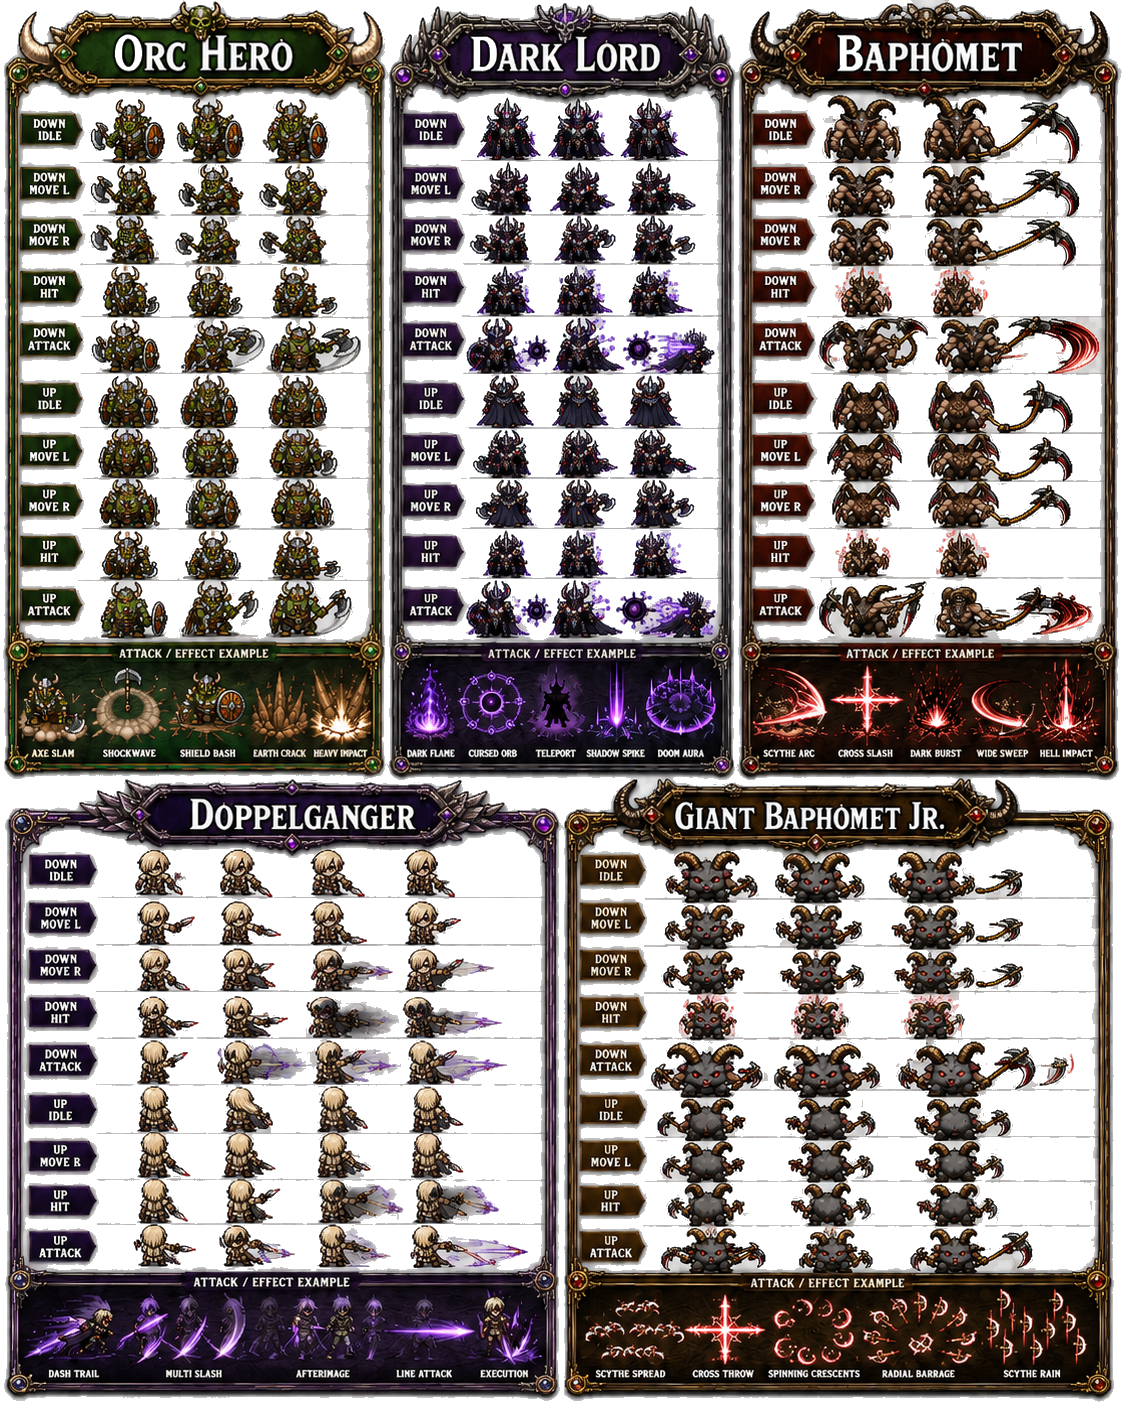
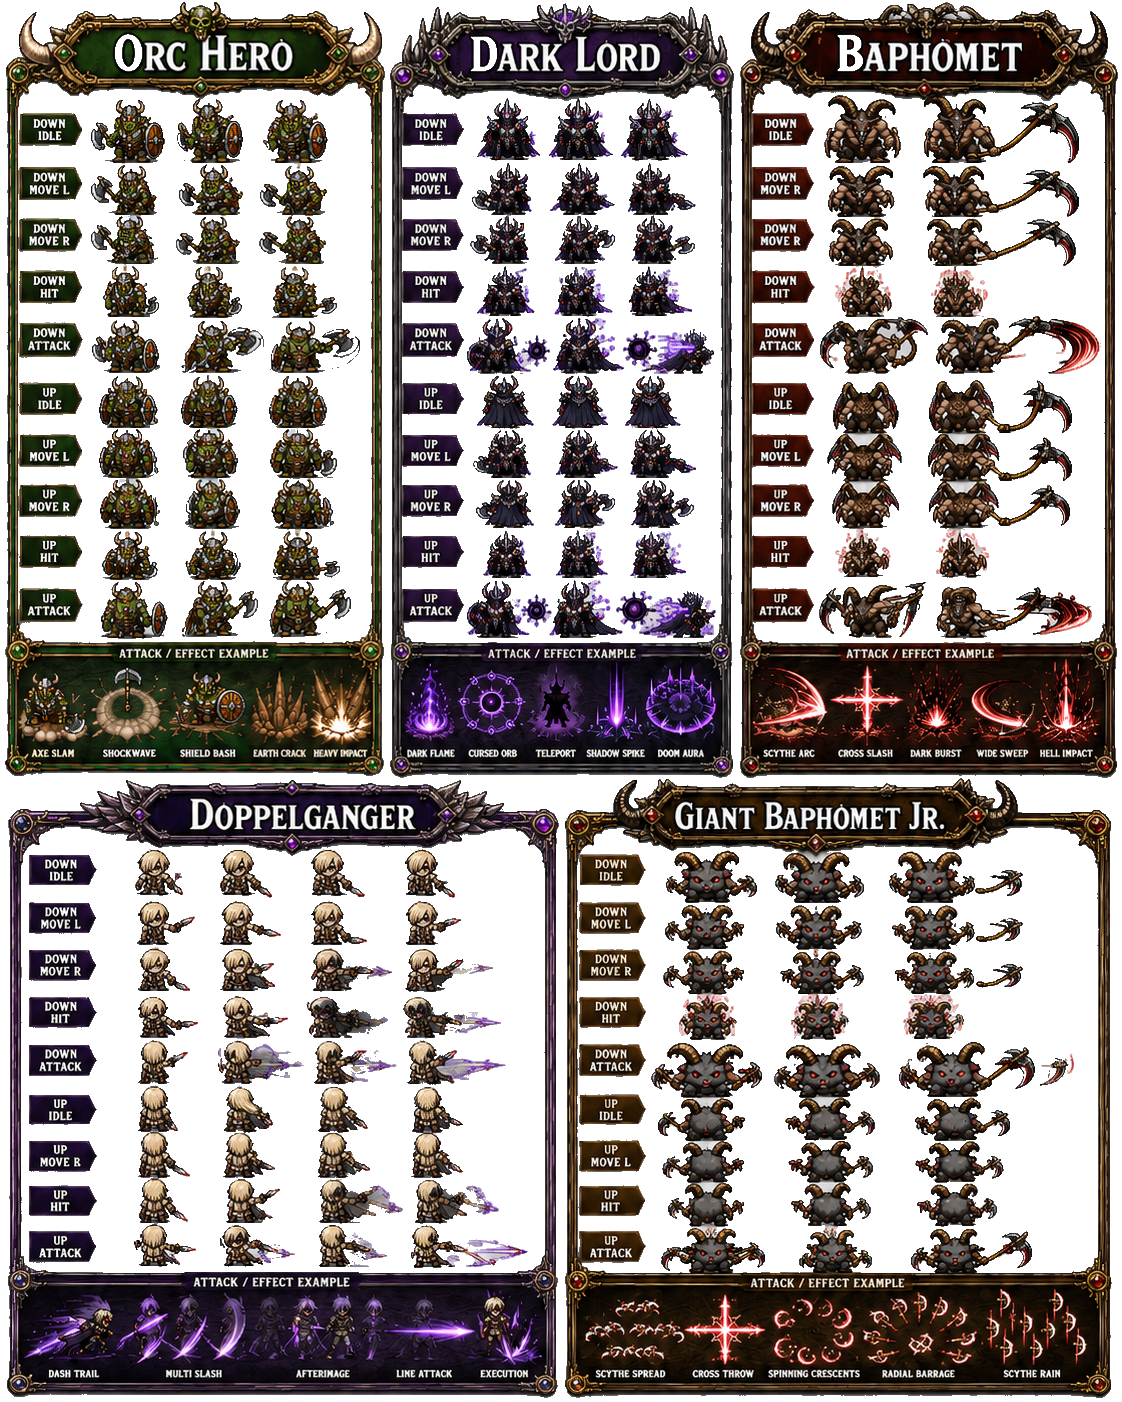
Boss fight rebalance: longer, slower, fairer + boss sprite bg fix
Fights were over in 8-20s (cards melted before patterns could be read). Now:
- Card HP tuned for ~30-45s active fights (Orc Hero ~36s, Dark Lord ~42s,
  Baphomet ~46s at realistic solo DPS; verified headless).
- Co-op scaling: card HP x1.7 with 2 players so duo fights keep their length.
- Boss bullets ~13% slower — more alive on screen, readable walls over reflex.
- Pattern identity: Dark Lord's Meteor Storm now falls in telegraphed columns
  (purple marker leads, column hammers the same x); desperation phases (speed
  up below 35% card HP) on every final card, plus Hell Judgement's third ring.
- Mid-bosses: HP 260/320/360 -> 420/520/600 (~10s mini-fights).

Also fixes a long-standing sprite bug the darker rebalanced fights exposed:
boss panels shade from bright to mid-gray, and the slicer only keyed bright
neutrals, leaving half the backdrop baked into Dark Lord's frames. Added an
expansion pass (grow transparency into adjacent neutral grays) to
slice-bosses.mjs and regenerated the atlas.

Determinism test still passes (lockstep checksums identical).

diff --git a/src/sim/boss.js b/src/sim/boss.js
@@ -5,9 +5,13 @@ import { FIELD_W } from './constants.js';
 import { ring, ringWithGap, fan, aimed, spiralArm, rain, angleTo } from './patterns.js';
 
 export function spawnBoss(sim, def) {
-  const maxHp = def.cards.reduce((s, c) => s + c.hp, 0);
+  // Co-op nearly doubles party DPS; scale card HP so the fight keeps its
+  // intended length (learn the pattern, find the flow) with 2 players too.
+  const hpMult = sim.players.filter(Boolean).length > 1 ? 1.7 : 1;
+  const maxHp = Math.round(def.cards.reduce((s, c) => s + c.hp, 0) * hpMult);
   sim.boss = {
     def,
+    hpMult,
     name: def.name,
     x: FIELD_W / 2, y: -90,
     r: def.r ?? 42,
@@ -15,8 +19,8 @@ export function spawnBoss(sim, def) {
     intro: true,
     t: 0,
     cardIndex: 0,
-    cardHp: def.cards[0].hp,
-    cardMax: def.cards[0].hp,
+    cardHp: Math.round(def.cards[0].hp * hpMult),
+    cardMax: Math.round(def.cards[0].hp * hpMult),
     cardName: def.cards[0].name,
     maxHp,
     hp: maxHp,
@@ -85,8 +89,8 @@ export function damageBoss(sim, dmg) {
     if (b.cardIndex < b.def.cards.length - 1) {
       b.cardIndex++;
       const card = b.def.cards[b.cardIndex];
-      b.cardHp = card.hp;
-      b.cardMax = card.hp;
+      b.cardHp = Math.round(card.hp * b.hpMult);
+      b.cardMax = Math.round(card.hp * b.hpMult);
       b.cardName = card.name;
       b.transition = 70;
       sim.enemyBullets.clear();
@@ -102,6 +106,10 @@ export function damageBoss(sim, dmg) {
 
 // --- Orc Hero: level 1 boss, 3 spell cards ---
 
+// Card HP is tuned for ~30-45 s of active fight per boss at realistic solo DPS
+// (~60-70/s with dodging downtime); co-op scales via hpMult in spawnBoss.
+// Bullets run ~13% slower than the old values: slower bullets → more alive on
+// screen at once → readable walls to weave through instead of reflex checks.
 export const orcHero = {
   name: 'Orc Hero',
   r: 44,
@@ -109,44 +117,49 @@ export const orcHero = {
   cards: [
     {
       // Grito de Guerra: sways and pumps out rotating gapped rings (shockwaves).
+      // The lesson: read the gap early and commit to it.
       name: 'Grito de Guerra',
-      hp: 220,
+      hp: 550,
       step(sim, b) {
         b.x = FIELD_W / 2 + Math.sin(b.t / 55) * 150;
-        if (b.t % 55 === 0) {
+        if (b.t % 50 === 0) {
           const gap = sim.rng.range(0, Math.PI * 2);
-          ringWithGap(sim, b.x, b.y, { n: 26, speed: 2.1, gapAngle: gap, gapWidth: 0.55, color: 'orange' });
-          ringWithGap(sim, b.x, b.y, { n: 26, speed: 2.1, gapAngle: gap + Math.PI, gapWidth: 0.55, color: 'red' });
+          ringWithGap(sim, b.x, b.y, { n: 26, speed: 1.8, gapAngle: gap, gapWidth: 0.55, color: 'orange' });
+          ringWithGap(sim, b.x, b.y, { n: 26, speed: 1.8, gapAngle: gap + Math.PI, gapWidth: 0.55, color: 'red' });
         }
-        if (b.t % 90 === 45) aimed(sim, b.x, b.y, { speed: 3.4, color: 'red' });
+        if (b.t % 90 === 45) aimed(sim, b.x, b.y, { speed: 3.0, color: 'red' });
       },
     },
     {
       // Hacha Tormenta: spinning axes that ricochet off the walls.
+      // The lesson: track ricochets, don't camp the bottom corners.
       name: 'Hacha Tormenta',
-      hp: 260,
+      hp: 650,
       step(sim, b) {
         b.x = FIELD_W / 2 + Math.cos(b.t / 40) * 170;
-        if (b.t % 10 === 0) {
+        if (b.t % 12 === 0) {
           const base = b.t / 22;
           for (let k = 0; k < 4; k++) {
             const a = base + (k / 4) * Math.PI * 2;
             sim.spawnEnemyBullet({
-              x: b.x, y: b.y, vx: Math.cos(a) * 3.0, vy: Math.sin(a) * 3.0,
+              x: b.x, y: b.y, vx: Math.cos(a) * 2.6, vy: Math.sin(a) * 2.6,
               color: 'purple', r: 7, bounce: 2, spin: 0.4,
             });
           }
         }
-        if (b.t % 120 === 60) fan(sim, b.x, b.y, { n: 5, angle: angleTo(sim, b.x, b.y), spread: 0.7, speed: 3.4, color: 'red' });
+        if (b.t % 120 === 60) fan(sim, b.x, b.y, { n: 5, angle: angleTo(sim, b.x, b.y), spread: 0.7, speed: 3.0, color: 'red' });
       },
     },
     {
       // Carga del Héroe: dashes toward the player while spears rain from above.
+      // Desperation: below 35% the rain thickens and the cycle shortens.
       name: 'Carga del Héroe',
-      hp: 300,
+      hp: 750,
       step(sim, b) {
+        const desperate = b.cardHp < b.cardMax * 0.35;
         // charge cycle: wind up, dash to player x, recover
-        const cyc = b.t % 150;
+        const cycLen = desperate ? 120 : 150;
+        const cyc = b.t % cycLen;
         if (cyc === 0) b.chargeX = null;
         if (cyc < 40) {
           // wind up: track player x slowly
@@ -155,11 +168,11 @@ export const orcHero = {
         } else if (cyc < 70) {
           if (b.chargeX == null) b.chargeX = nearestX(sim, b.x);
           b.x += (b.chargeX - b.x) * 0.25;
-          if (cyc % 6 === 0) fan(sim, b.x, b.y, { n: 3, angle: Math.PI / 2, spread: 0.5, speed: 3.6, color: 'orange' });
+          if (cyc % 6 === 0) fan(sim, b.x, b.y, { n: 3, angle: Math.PI / 2, spread: 0.5, speed: 3.1, color: 'orange' });
         }
         // constant spear rain from the top
-        if (b.t % 9 === 0) rain(sim, sim.rng.range(30, FIELD_W - 30), { speed: 3.4, color: 'red', r: 5 });
-        if (b.t % 70 === 0) ring(sim, b.x, b.y, { n: 16, speed: 2.0, baseAngle: sim.rng.range(0, 1), color: 'purple' });
+        if (b.t % (desperate ? 8 : 11) === 0) rain(sim, sim.rng.range(30, FIELD_W - 30), { speed: 2.9, color: 'red', r: 5 });
+        if (b.t % 70 === 0) ring(sim, b.x, b.y, { n: 16, speed: 1.8, baseAngle: sim.rng.range(0, 1), color: 'purple' });
       },
     },
   ],
@@ -183,40 +196,53 @@ export const darkLord = {
   targetY: 175,
   cards: [
     {
-      // Meteor Storm: telegraphed meteors + slow drifting rings.
+      // Meteor Storm: meteors fall in COLUMNS. A slow purple marker leads each
+      // column, then the burst hammers the same x — read the marker, sidestep
+      // the column. Sparse random drizzle keeps you honest between columns.
       name: 'Meteor Storm',
-      hp: 300,
+      hp: 650,
       step(sim, b) {
         b.x = FIELD_W / 2 + Math.sin(b.t / 60) * 150;
-        if (b.t % 8 === 0) rain(sim, sim.rng.range(20, FIELD_W - 20), { speed: 3.6, color: 'orange', r: 6 });
-        if (b.t % 70 === 0) ring(sim, b.x, b.y, { n: 18, speed: 1.7, baseAngle: sim.rng.range(0, 6.28), color: 'purple' });
+        const cyc = b.t % 70;
+        if (cyc === 0) b.meteorX = sim.rng.range(40, FIELD_W - 40);
+        if (cyc === 0) rain(sim, b.meteorX, { speed: 2.0, color: 'purple', r: 8 }); // telegraph marker
+        if (cyc >= 22 && cyc < 46 && cyc % 4 === 0) {
+          rain(sim, b.meteorX + sim.rng.range(-14, 14), { speed: 3.3, color: 'orange', r: 6 }); // the column
+        }
+        if (b.t % 17 === 0) rain(sim, sim.rng.range(20, FIELD_W - 20), { speed: 2.7, color: 'orange', r: 5 });
+        if (b.t % 70 === 35) ring(sim, b.x, b.y, { n: 18, speed: 1.5, baseAngle: sim.rng.range(0, 6.28), color: 'purple' });
       },
     },
     {
       // Hell Judgement: dense multi-layer rings pulsing from the center.
+      // Desperation: a third ring layer joins below 35%.
       name: 'Hell Judgement',
-      hp: 340,
+      hp: 780,
       step(sim, b) {
         b.x += (FIELD_W / 2 - b.x) * 0.06;
+        const desperate = b.cardHp < b.cardMax * 0.35;
         if (b.t % 36 === 0) {
           const base = (b.t / 36) * 0.4;
-          ring(sim, b.x, b.y, { n: 22, speed: 2.4, baseAngle: base, color: 'red' });
-          ring(sim, b.x, b.y, { n: 22, speed: 1.7, baseAngle: -base + 0.14, color: 'purple' });
+          ring(sim, b.x, b.y, { n: 22, speed: 2.0, baseAngle: base, color: 'red' });
+          ring(sim, b.x, b.y, { n: 22, speed: 1.5, baseAngle: -base + 0.14, color: 'purple' });
+          if (desperate) ring(sim, b.x, b.y, { n: 14, speed: 2.4, baseAngle: base + 0.07, color: 'orange' });
         }
-        if (b.t % 100 === 50) fan(sim, b.x, b.y, { n: 7, angle: angleTo(sim, b.x, b.y), spread: 0.9, speed: 3.2, color: 'orange' });
+        if (b.t % 100 === 50) fan(sim, b.x, b.y, { n: 7, angle: angleTo(sim, b.x, b.y), spread: 0.9, speed: 2.8, color: 'orange' });
       },
     },
     {
       // Tinieblas Eternas: rotating twin spirals + spear rain; darkens the arena.
+      // Desperation: the spirals spin faster below 35%.
       name: 'Tinieblas Eternas',
-      hp: 380,
+      hp: 910,
       step(sim, b) {
         if (b.t === 0) sim.events.push({ type: 'darken', on: true });
         b.x = FIELD_W / 2 + Math.cos(b.t / 50) * 160;
-        const ph = b.t * 0.16;
-        spiralArm(sim, b.x, b.y, { arms: 2, phase: ph, speed: 2.5, color: 'purple' });
-        spiralArm(sim, b.x, b.y, { arms: 2, phase: -ph + Math.PI, speed: 2.5, color: 'red' });
-        if (b.t % 12 === 0) rain(sim, sim.rng.range(20, FIELD_W - 20), { speed: 3.2, color: 'orange', r: 5 });
+        const desperate = b.cardHp < b.cardMax * 0.35;
+        const ph = b.t * (desperate ? 0.2 : 0.16);
+        spiralArm(sim, b.x, b.y, { arms: 2, phase: ph, speed: 2.2, color: 'purple' });
+        spiralArm(sim, b.x, b.y, { arms: 2, phase: -ph + Math.PI, speed: 2.2, color: 'red' });
+        if (b.t % 14 === 0) rain(sim, sim.rng.range(20, FIELD_W - 20), { speed: 2.8, color: 'orange', r: 5 });
       },
     },
   ],
@@ -231,22 +257,24 @@ export const baphomet = {
   cards: [
     {
       // Guadaña Dimensional: crossing diagonal scythe-waves in an X.
+      // The lesson: the crossing point sweeps down — ride between the blades.
       name: 'Guadaña Dimensional',
-      hp: 340,
+      hp: 760,
       step(sim, b) {
         b.x = FIELD_W / 2 + Math.sin(b.t / 55) * 150;
-        if (b.t % 14 === 0) {
-          const s = 3.2;
+        if (b.t % 13 === 0) {
+          const s = 2.8;
           sim.spawnEnemyBullet({ x: 0, y: (b.t % 300) * 2.6 - 40, vx: s, vy: s, color: 'purple', r: 6 });
           sim.spawnEnemyBullet({ x: FIELD_W, y: (b.t % 300) * 2.6 - 40, vx: -s, vy: s, color: 'red', r: 6 });
         }
-        if (b.t % 80 === 40) ring(sim, b.x, b.y, { n: 16, speed: 2.2, baseAngle: sim.rng.range(0, 6.28), color: 'orange' });
+        if (b.t % 80 === 40) ring(sim, b.x, b.y, { n: 16, speed: 1.9, baseAngle: sim.rng.range(0, 6.28), color: 'orange' });
       },
     },
     {
       // Invocación Demoníaca: summons orbiting Baphomet Jr. minions + aimed fans.
+      // The lesson: prioritize the adds without losing the fan rhythm.
       name: 'Invocación Demoníaca',
-      hp: 380,
+      hp: 860,
       step(sim, b) {
         b.x += (FIELD_W / 2 - b.x) * 0.05;
         if (b.t % 200 === 30 && sim.enemies.active.length < 6) {
@@ -254,31 +282,31 @@ export const baphomet = {
             sim.spawnEnemy({
               x: b.x + (k ? 60 : -60), y: b.y + 20, vx: 0, vy: 1.2,
               hp: 24, r: 15, skin: 'bapho_jr', score: 800,
-              shoot: (s, e) => { if (e.t % 60 === 30) aimed(s, e.x, e.y, { speed: 3.2, color: 'red' }); },
+              shoot: (s, e) => { if (e.t % 60 === 30) aimed(s, e.x, e.y, { speed: 2.8, color: 'red' }); },
             });
           }
           sim.events.push({ type: 'summon', x: b.x, y: b.y });
         }
-        if (b.t % 50 === 0) fan(sim, b.x, b.y, { n: 5, angle: angleTo(sim, b.x, b.y), spread: 0.7, speed: 3.0, color: 'purple' });
+        if (b.t % 50 === 0) fan(sim, b.x, b.y, { n: 5, angle: angleTo(sim, b.x, b.y), spread: 0.7, speed: 2.7, color: 'purple' });
       },
     },
     {
       // Juicio Final: the hardest — layered rings + spiral + rain. Speeds up
       // as HP drops (desperation).
       name: 'Juicio Final',
-      hp: 460,
+      hp: 980,
       step(sim, b) {
         b.x = FIELD_W / 2 + Math.sin(b.t / 40) * 140;
         const desperate = b.cardHp < b.cardMax * 0.35;
         const period = desperate ? 26 : 40;
         if (b.t % period === 0) {
           const base = sim.rng.range(0, 6.28);
-          ringWithGap(sim, b.x, b.y, { n: 30, speed: 2.5, gapAngle: base, gapWidth: 0.5, color: 'red' });
-          ring(sim, b.x, b.y, { n: 18, speed: 1.8, baseAngle: base, color: 'purple' });
+          ringWithGap(sim, b.x, b.y, { n: 30, speed: 2.2, gapAngle: base, gapWidth: 0.5, color: 'red' });
+          ring(sim, b.x, b.y, { n: 18, speed: 1.6, baseAngle: base, color: 'purple' });
         }
         const ph = b.t * (desperate ? 0.22 : 0.16);
-        spiralArm(sim, b.x, b.y, { arms: 3, phase: ph, speed: 2.6, color: 'orange' });
-        if (b.t % 10 === 0) rain(sim, sim.rng.range(20, FIELD_W - 20), { speed: 3.4, color: 'purple', r: 5 });
+        spiralArm(sim, b.x, b.y, { arms: 3, phase: ph, speed: 2.3, color: 'orange' });
+        if (b.t % 12 === 0) rain(sim, sim.rng.range(20, FIELD_W - 20), { speed: 3.0, color: 'purple', r: 5 });
       },
     },
   ],

diff --git a/src/levels/level1.js b/src/levels/level1.js
@@ -153,7 +153,7 @@ export function level1(sim) {
         sim.events.push({ type: 'warning', name: 'Mastering' });
         L.midAlive = true;
         sim.spawnEnemy({
-          x: FIELD_W / 2, y: -50, vx: 0, vy: 1.2, hp: 260, r: 42,
+          x: FIELD_W / 2, y: -50, vx: 0, vy: 1.2, hp: 420, r: 42,
           skin: 'mastering', score: 8000, shoot: masteringStep,
           onDeath: () => { sim.level.midAlive = false; }, drop: 'chest',
         });

diff --git a/src/levels/level2.js b/src/levels/level2.js
@@ -105,7 +105,7 @@ export function level2(sim) {
         sim.events.push({ type: 'warning', name: 'Doppelganger' });
         L.midAlive = true;
         sim.spawnEnemy({
-          x: FIELD_W / 2, y: -50, vx: 0, vy: 1.2, hp: 320, r: 40,
+          x: FIELD_W / 2, y: -50, vx: 0, vy: 1.2, hp: 520, r: 40,
           skin: 'doppelganger', score: 12000, shoot: doppelStep,
           onDeath: () => { sim.level.midAlive = false; }, drop: 'chest',
         });

diff --git a/src/levels/level3.js b/src/levels/level3.js
@@ -117,7 +117,7 @@ export function level3(sim) {
         sim.events.push({ type: 'warning', name: 'Baphomet Jr.' });
         L.midAlive = true;
         sim.spawnEnemy({
-          x: FIELD_W / 2, y: -50, vx: 0, vy: 1.2, hp: 360, r: 38,
+          x: FIELD_W / 2, y: -50, vx: 0, vy: 1.2, hp: 600, r: 38,
           skin: 'bapho_jr_giant', score: 15000, shoot: bigBaphoJrStep,
           onDeath: () => { sim.level.midAlive = false; }, drop: 'chest',
         });